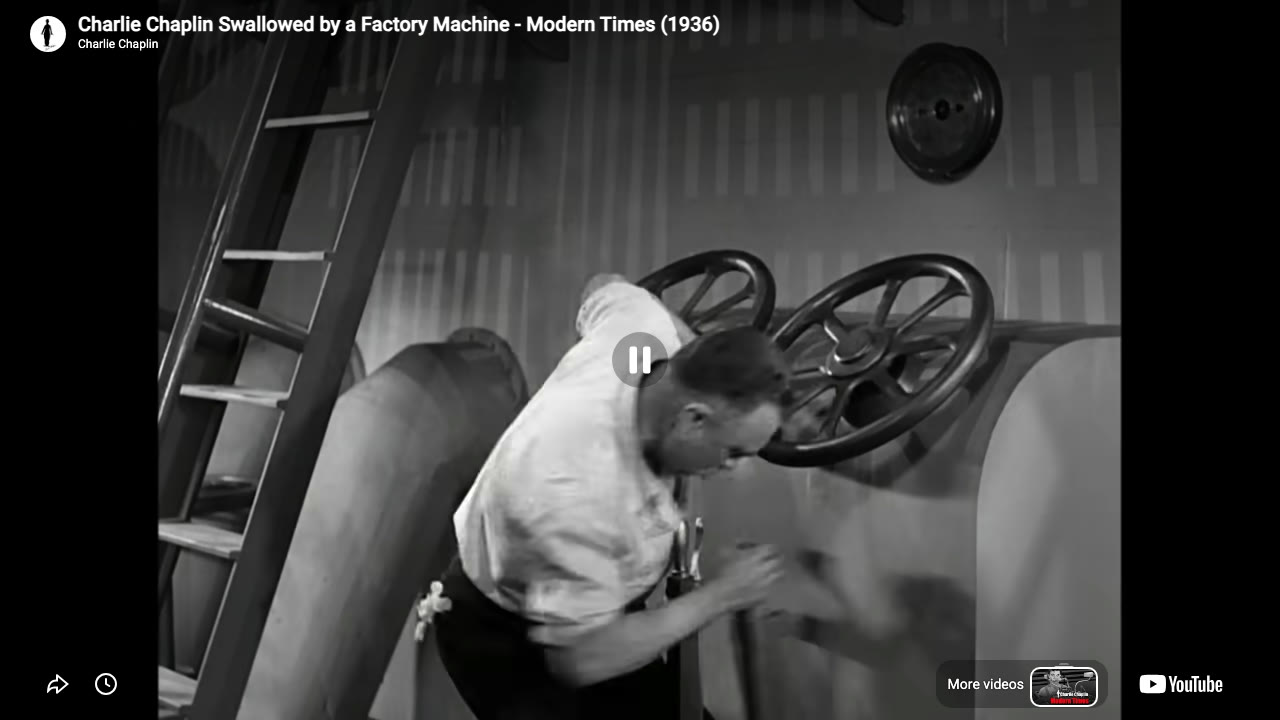
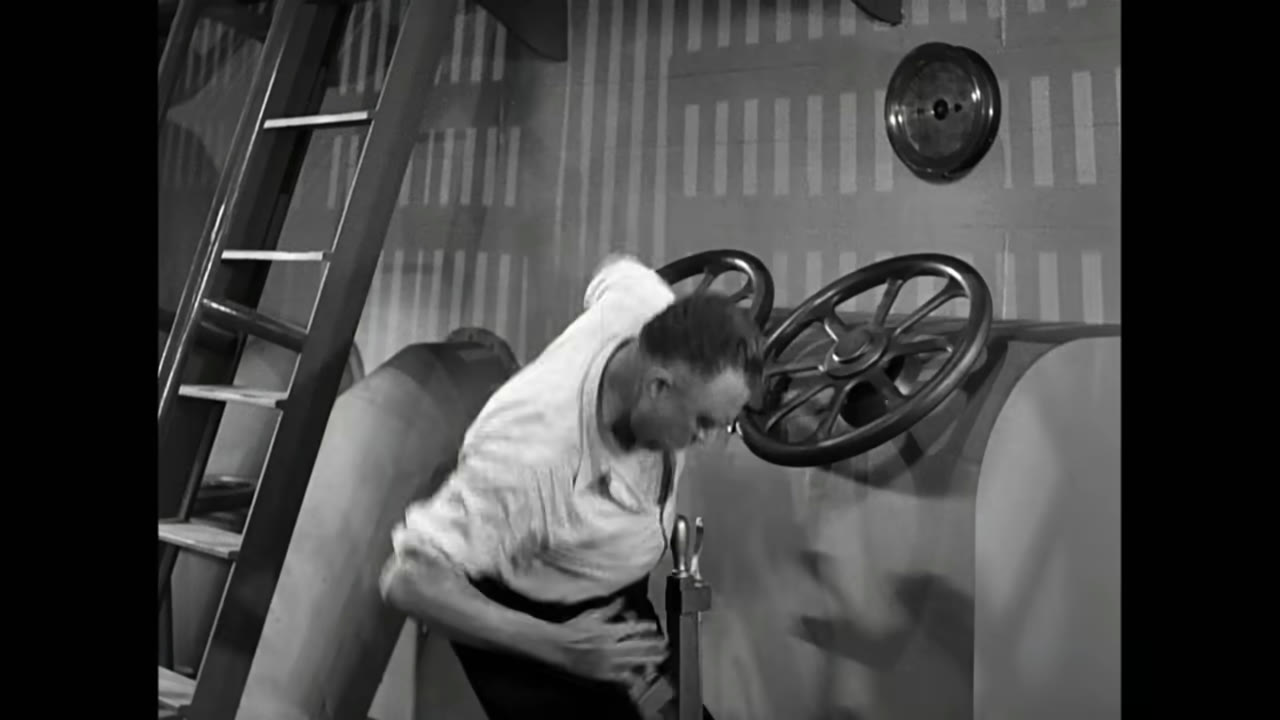
Week 2 deck: fixes from the blind audit of 726ebce
- Screen 13: the wall reaches the ground at 19.686-19.719 s (frame-accurate),
  not ~19.9 s; the up-to-the-moment end point moves from 19.45 s to 19.1 s so
  the realised pause (timeupdate, ~0.25 s late at worst) lands with the wall
  clearly in the air. The checker now asserts end + 0.3 <= 19.69.
- Seven embed posters re-captured: the previous screenshots carried the
  player's title bar, pause glyph and suggestions strip. The page's own video
  element is lifted above the player and shot while playing; the committed
  JPEGs show the film frame only (Mickey cropped to its 4:3 picture).
- Esc closes the lightbox even after a click inside the embedded player:
  focus is handed back to the deck's close button whenever an iframe takes it.
- Children-facing text at the 28 px floor at 1080p: agenda sub-lines and the
  two dual-stage labels; the four pictures on screens 2 and 7 are height-driven
  (23 vh) instead of a 1160 px grid (14.9 vh at 1080p before).
- Segment backgrounds 0-1 are the piano as the media brief asks; the wall
  diagram's labels use the deck's display face; local clips whose end equals
  the file length now end naturally; the Pathe photograph is credited to
  J. David on screen; two unreferenced frames removed.
- browser-audit measures every picture class and every label class;
  lightbox-test clicks inside the player before pressing Esc.

diff --git a/public/starx-week-2/index.html b/public/starx-week-2/index.html
@@ -833,7 +833,7 @@
   .beat-list{max-width:520px}
   .callout{font-size:clamp(1rem,1.5vw,1.8rem)}
   .agenda-row .a-t{font-size:clamp(16px,1.6vw,32px)}
-  .agenda-row .a-d{font-size:clamp(13px,1.3vw,24px)}
+  .agenda-row .a-d{font-size:clamp(13px,1.5vw,30px)}
   .title-slide .tagline{font-size:clamp(1.1rem,2.3vw,1.8rem)}
   .frame-pair .fp-cap{font-size:clamp(13px,1.5vw,28px);font-family:var(--display);font-weight:700;color:var(--ink)}
   /* screen 14: beats, the mid-fall frame and the diagram sit in one non-wrapping row */
@@ -848,6 +848,12 @@
   /* screen 22: the two door frames read at a glance */
   .oz-pair .torn-frame img{height:clamp(120px,22vh,240px);width:auto;max-height:none}
   .oz-pair{gap:16px}
+  /* blind-audit fixes (2026-09-02): children-facing text at the 28px floor; the four pictures scale with the screen */
+  .two-stage .dual-label{font-family:var(--display);font-weight:800;font-size:clamp(15px,1.5vw,30px);letter-spacing:0;text-transform:none;color:var(--ink);display:flex;align-items:center;justify-content:center;gap:8px;margin-bottom:8px}
+  .frames-row{display:flex;justify-content:center;align-items:flex-start;gap:clamp(10px,1.4vw,22px);width:auto;max-width:none}
+  .frame-card{flex:0 0 auto;width:auto}
+  .frame-card .torn-frame{width:auto}
+  .frame-card .torn-frame img{height:clamp(140px,23vh,290px);width:auto;aspect-ratio:16/10;object-fit:cover;max-height:none}
 
 </style>
 </head>
@@ -908,7 +914,7 @@
 
   // one big background illustration per segment — a screen's own `bgIcon` or its
   // clip `icon` overrides the segment default when the subject is more specific
-  var SEG_BG = ['clapper','bowlerCane','mouthShut','wallWindow','gramophone','paintbrush'];
+  var SEG_BG = ['piano','piano','mouthShut','wallWindow','gramophone','paintbrush'];
 
   // ================================================================
   // SECTION 2 of 6: ICONS — hand-drawn character cast + doodles
@@ -1093,7 +1099,7 @@
   ICONS.cardLemon = '<svg viewBox="0 0 100 100" xmlns="http://www.w3.org/2000/svg"><g filter="url(#wob)"><path d="M12 50 Q12 22 50 22 Q88 22 88 50 Q88 78 50 78 Q12 78 12 50 Z" fill="#E0A02A"/><circle cx="12" cy="50" r="6" fill="#E0A02A"/><circle cx="88" cy="50" r="6" fill="#E0A02A"/></g><path d="M34 44 Q40 40 46 44 M54 44 Q60 40 66 44" stroke="currentColor" stroke-width="4" stroke-linecap="round" fill="none"/><circle cx="50" cy="60" r="5" fill="currentColor"/></svg>';
   ICONS.trumpet = '<svg viewBox="0 0 100 100" xmlns="http://www.w3.org/2000/svg"><g filter="url(#wob)"><path d="M10 44 L58 40 L88 18 L88 82 L58 60 L10 56 Z" fill="currentColor"/></g><rect x="22" y="36" width="6" height="28" rx="2" fill="'+P+'"/><rect x="34" y="36" width="6" height="28" rx="2" fill="'+P+'"/><rect x="46" y="36" width="6" height="28" rx="2" fill="'+P+'"/></svg>';
   ICONS.tlLine = '<svg viewBox="0 0 1000 14" preserveAspectRatio="none" xmlns="http://www.w3.org/2000/svg"><path d="M4 7 Q250 2 500 7 T996 7" stroke="currentColor" stroke-width="4" stroke-linecap="round" fill="none"/><path d="M984 2 L996 7 L984 12" stroke="currentColor" stroke-width="4" stroke-linecap="round" stroke-linejoin="round" fill="none"/></svg>';
-  ICONS.wallDiagram = '<svg viewBox="0 0 300 200" xmlns="http://www.w3.org/2000/svg"><g filter="url(#wob)"><rect x="30" y="20" width="240" height="130" rx="4" fill="currentColor"/></g><rect x="118" y="46" width="64" height="104" fill="'+P+'"/><circle cx="150" cy="96" r="12" fill="currentColor"/><rect x="141" y="110" width="18" height="40" rx="4" fill="currentColor"/><path d="M110 60 L118 60 M182 60 L190 60" stroke="#C8323F" stroke-width="4" stroke-linecap="round"/><text x="150" y="182" text-anchor="middle" font-family="Fraunces, Georgia, serif" font-size="18" font-weight="700" fill="currentColor">the window falls around him</text><text x="150" y="38" text-anchor="middle" font-family="Fraunces, Georgia, serif" font-size="16" font-weight="700" fill="'+P+'">the wall</text></svg>';
+  ICONS.wallDiagram = '<svg viewBox="0 0 300 200" xmlns="http://www.w3.org/2000/svg"><g filter="url(#wob)"><rect x="30" y="20" width="240" height="130" rx="4" fill="currentColor"/></g><rect x="118" y="46" width="64" height="104" fill="'+P+'"/><circle cx="150" cy="96" r="12" fill="currentColor"/><rect x="141" y="110" width="18" height="40" rx="4" fill="currentColor"/><path d="M110 60 L118 60 M182 60 L190 60" stroke="#C8323F" stroke-width="4" stroke-linecap="round"/><text x="150" y="182" text-anchor="middle" font-family="Bricolage Grotesque, system-ui, sans-serif" font-size="18" font-weight="700" fill="currentColor">the window falls around him</text><text x="150" y="38" text-anchor="middle" font-family="Bricolage Grotesque, system-ui, sans-serif" font-size="16" font-weight="700" fill="'+P+'">the wall</text></svg>';
   ICONS.titleScene = '<svg viewBox="0 0 400 260" xmlns="http://www.w3.org/2000/svg"><rect x="70" y="14" width="260" height="130" rx="4" fill="'+P+'" stroke="currentColor" stroke-width="4"/><g fill="currentColor"><path d="M186 58 Q186 42 200 42 Q214 42 214 58 Z"/><rect x="180" y="56" width="40" height="5" rx="2"/><circle cx="200" cy="72" r="9"/><path d="M188 82 L212 82 L216 114 L184 114 Z"/><path d="M186 114 L198 114 L196 134 L182 134 Z M202 114 L214 114 L218 134 L204 134 Z"/><ellipse cx="188" cy="136" rx="12" ry="4"/><ellipse cx="212" cy="136" rx="12" ry="4"/><path d="M218 92 Q226 92 226 100 L226 124" stroke="currentColor" stroke-width="3" fill="none"/></g><path d="M20 150 L70 14 M380 150 L330 14" stroke="currentColor" stroke-width="2" stroke-dasharray="6 6" opacity=".45"/><g fill="currentColor"><rect x="26" y="168" width="96" height="52" rx="5"/><rect x="34" y="220" width="6" height="14"/><rect x="108" y="220" width="6" height="14"/><circle cx="150" cy="176" r="10"/><path d="M142 186 L158 186 L162 222 L138 222 Z"/><path d="M144 196 L124 190 M156 196 L128 200" stroke="currentColor" stroke-width="5" stroke-linecap="round"/></g><rect x="32" y="188" width="84" height="10" fill="'+P+'"/><g fill="currentColor" opacity=".85"><path d="M190 260 Q190 232 210 232 Q230 232 230 260 Z"/><path d="M236 260 Q236 232 256 232 Q276 232 276 260 Z"/><path d="M282 260 Q282 232 302 232 Q322 232 322 260 Z"/><path d="M328 260 Q328 232 348 232 Q368 232 368 260 Z"/></g><path d="M56 226 Q60 214 66 220 M76 214 Q80 204 86 212 M96 222 Q100 212 106 218" stroke="currentColor" stroke-width="3" stroke-linecap="round" fill="none"/></svg>';
   ICONS.colourCamera = '<svg viewBox="0 0 100 100" xmlns="http://www.w3.org/2000/svg"><g filter="url(#wob)"><rect x="8" y="30" width="84" height="54" rx="8" fill="currentColor"/><rect x="30" y="18" width="28" height="16" rx="4" fill="currentColor"/></g><circle cx="50" cy="57" r="17" fill="#F7F5EF"/><circle cx="50" cy="57" r="9" fill="currentColor"/><circle cx="20" cy="42" r="4" fill="#C8323F"/><circle cx="80" cy="42" r="4" fill="#E0A02A"/><circle cx="80" cy="72" r="4" fill="#2C8A85"/></svg>';
 
@@ -1112,13 +1118,13 @@
     rollsQuiet: {type:'ext', id:'4DLdMa98JdM', start:8, end:38, frame:'media/frames/goldrush-rolls.jpg', title:'The Gold Rush · 1925 · thirty seconds of the dance', range:'0:08–0:38 · with music, or with no sound', credit:'Charles Chaplin Productions · 1925 · Roy Export S.A.S. (official channel)', pri:'P1', mutedBtn:true},
     machine:    {type:'ext', id:'mVUVPen3xNQ', start:50, end:125, frame:'media/frames/modern-times-machine.jpg', title:'Modern Times · 1936 · the feeding machine', range:'0:50–2:05 · plays here', credit:'Charles Chaplin Productions · 1936 · Roy Export S.A.S. · clip via Turner Classic Movies', pri:'P1'},
     gears:      {type:'ext', id:'ZdvEGPt4s0Y', start:24, end:66, frame:'media/frames/modern-times-gears.jpg', title:'Modern Times · 1936 · swallowed by the gears', range:'0:24–1:06 · only if the clock is green', credit:'Charles Chaplin Productions · 1936 · Roy Export S.A.S. (official channel)', pri:'P2'},
-    keatonUpTo: {type:'local', src:'media/keaton-steamboat-bill-wall.mp4', frame:'media/frames/keaton-wall-storm.jpg', start:0, end:19.45, title:'Steamboat Bill, Jr. · 1928 · up to the moment', range:'0:00–0:19 · stops by itself as the wall comes down', credit:'Buster Keaton Productions / United Artists · 1928 · public domain', pri:'P1'},
-    keatonWhole:{type:'local', src:'media/keaton-steamboat-bill-wall.mp4', frame:'media/frames/keaton-wall-storm.jpg', start:0, end:27, title:'Steamboat Bill, Jr. · 1928 · the whole thing', range:'0:00–0:27 · plays here', credit:'Buster Keaton Productions / United Artists · 1928 · public domain', pri:'P1'},
-    lloyd:      {type:'local', src:'media/lloyd-safety-last-clock.mp4', frame:'media/frames/lloyd-safety-last-clock.jpg', start:0, end:45, title:'Safety Last! · 1923 · Harold Lloyd on the clock', range:'0:00–0:45 · plays here', credit:'Hal Roach Studios / Pathé · 1923 · public domain', pri:'P2'},
+    keatonUpTo: {type:'local', src:'media/keaton-steamboat-bill-wall.mp4', frame:'media/frames/keaton-wall-storm.jpg', start:0, end:19.1, title:'Steamboat Bill, Jr. · 1928 · up to the moment', range:'0:00–0:19 · stops by itself as the wall comes down', credit:'Buster Keaton Productions / United Artists · 1928 · public domain', pri:'P1'},
+    keatonWhole:{type:'local', src:'media/keaton-steamboat-bill-wall.mp4', frame:'media/frames/keaton-wall-storm.jpg', start:0, end:27.1, title:'Steamboat Bill, Jr. · 1928 · the whole thing', range:'0:00–0:27 · plays here', credit:'Buster Keaton Productions / United Artists · 1928 · public domain', pri:'P1'},
+    lloyd:      {type:'local', src:'media/lloyd-safety-last-clock.mp4', frame:'media/frames/lloyd-safety-last-clock.jpg', start:0, end:45.1, title:'Safety Last! · 1923 · Harold Lloyd on the clock', range:'0:00–0:45 · plays here', credit:'Hal Roach Studios / Pathé · 1923 · public domain', pri:'P2'},
     jazz:       {type:'ext', id:'22NQuPrwbHA', start:0, end:58, frame:'media/frames/jazz-singer-jolson.jpg', title:'The Jazz Singer · 1927 · “You ain’t heard nothin’ yet”', range:'0:00–0:58 · plays here', credit:'Warner Bros. · 1927 · Warner Bros. Entertainment (official channel)', pri:'P1'},
-    steamboat:  {type:'local', src:'media/steamboat-willie.mp4', frame:'media/frames/steamboat.jpg', start:0, end:22, title:'Steamboat Willie · 1928 · Walt Disney / Ub Iwerks', range:'0:00–0:22 · plays here · play it twice', credit:'Walt Disney Studios · 1928 · public domain', pri:'P1'},
+    steamboat:  {type:'local', src:'media/steamboat-willie.mp4', frame:'media/frames/steamboat.jpg', start:0, end:22.1, title:'Steamboat Willie · 1928 · Walt Disney / Ub Iwerks', range:'0:00–0:22 · plays here · play it twice', credit:'Walt Disney Studios · 1928 · public domain', pri:'P1'},
     singin:     {type:'ext', id:'YMzV96LV6Cc', start:58, end:130, frame:'media/frames/singin-out-of-sync.jpg', title:'Singin’ in the Rain · 1952 · “Out of Sync”', range:'0:58–2:10 · plays here', credit:'MGM · 1952 · Movieclips (licensed clip channel)', pri:'P2'},
-    lune:       {type:'local', src:'media/melies-lune-colour.mp4', frame:'media/frames/melies-lune-colour.jpg', start:0, end:28, title:'Le Voyage dans la Lune · 1902 · hand-coloured', range:'0:00–0:28 · plays here', credit:'Star Film / Georges Méliès · 1902 · colour print restored 2011 · public domain', pri:'P1'},
+    lune:       {type:'local', src:'media/melies-lune-colour.mp4', frame:'media/frames/melies-lune-colour.jpg', start:0, end:28.1, title:'Le Voyage dans la Lune · 1902 · hand-coloured', range:'0:00–0:28 · plays here', credit:'Star Film / Georges Méliès · 1902 · colour print restored 2011 · public domain', pri:'P1'},
     oz:         {type:'ext', id:'YWFHeDcVNiw', start:30, end:90, frame:'media/frames/oz-door-sepia.jpg', title:'The Wizard of Oz · 1939 · Dorothy opens the door', range:'0:30–1:30 · plays here', credit:'MGM · 1939 · Warner Bros. · no official clip of the door exists; fan upload, see manifest', pri:'P1'},
     // bonus only — never inside SEGMENTS' 60 minutes
     mickey:     {type:'ext', id:'M21UsdJnkBY', start:0, end:467, frame:'media/frames/mickey-worm-turns.jpg', title:'Mickey Mouse · “The Worm Turns” · 1937', range:'7:47 · whole cartoon · only if there is time', credit:'Walt Disney Productions · 1937 · clip-channel upload, see manifest', pri:'P3'}
@@ -1235,7 +1241,7 @@
 
     {seg:5, kind:'clip', layout:'split', mode:'watch', clip:'lune', icon:'paintbrush', iconCls:'c-colour', eyebrow:'LE VOYAGE DANS LA LUNE · 1902', headline:'Painted by hand.', hero:true,
      bullets:['One frame at a time.','About 220 women in Paris.','Brushes as thin as one hair.','13,375 frames for a single copy.'],
-     supportImg:{src:'media/frames/pathe-colouring-1907.jpg', alt:'Women colouring film by hand at the Pathé works, 1907', cap:'Women colouring film by hand, Pathé, 1907.', credit:'Wikimedia Commons · public domain'},
+     supportImg:{src:'media/frames/pathe-colouring-1907.jpg', alt:'Women colouring film by hand at the Pathé works, 1907', cap:'Women colouring film by hand, Pathé, 1907.', credit:'J. David · Fondation Jérôme Seydoux-Pathé · public domain'},
      note:'Play the eye first, they know it from last week, then let it run onto the surface. Watch for the smoke and the flags: every colour is a brush stroke. Ask: how long would that take you?'},
 
     {seg:5, kind:'oz', mode:'watch', clip:'oz', eyebrow:'THE WIZARD OF OZ · 1939', headline:'Watch the door.', sub:'Don’t say anything until it opens.', callout:'In 1939 a colour film still made a whole cinema gasp.',
@@ -1586,6 +1592,15 @@
     lightboxOpen = false;
   }
 
+  // A click inside the embedded player moves keyboard focus into its frame, and every deck key
+  // (Esc included) would then be dead. Hand focus straight back to the deck's own close button.
+  window.addEventListener('blur', function(){
+    if (!lightboxOpen) return;
+    setTimeout(function(){
+      var a = document.activeElement;
+      if (a && a.tagName === 'IFRAME'){ a.blur(); window.focus(); document.getElementById('lightbox-close').focus(); }
+    }, 0);
+  });
   lightboxEl.querySelector('#lightbox-backdrop').addEventListener('click', closeLightbox);
   lightboxEl.querySelector('#lightbox-close').addEventListener('click', closeLightbox);
 
